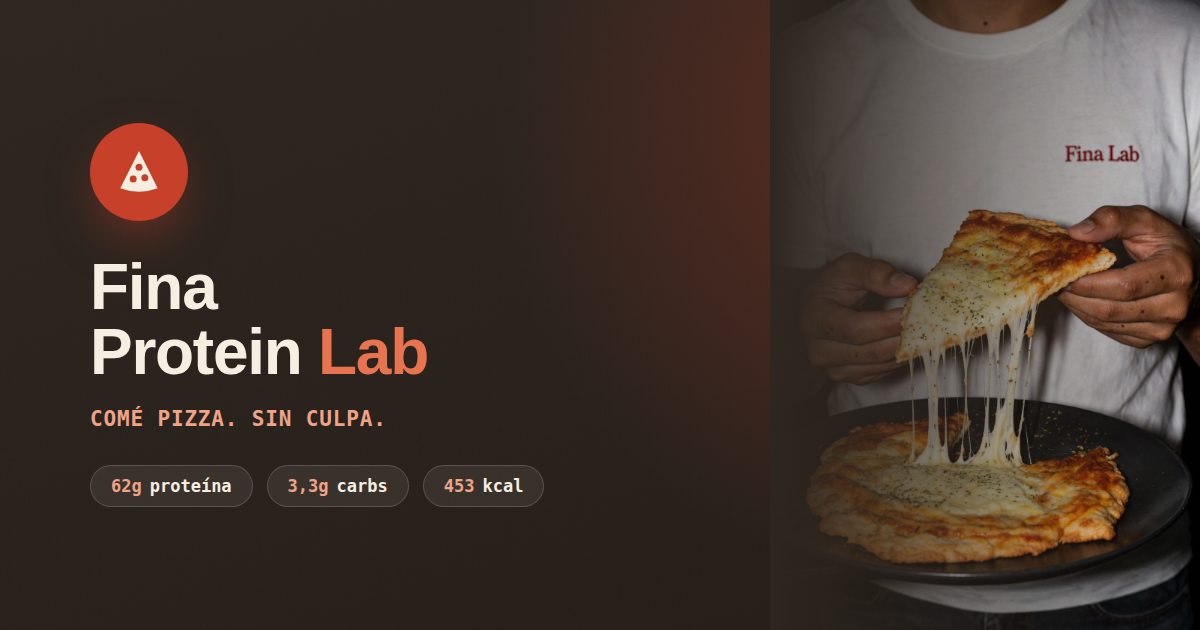
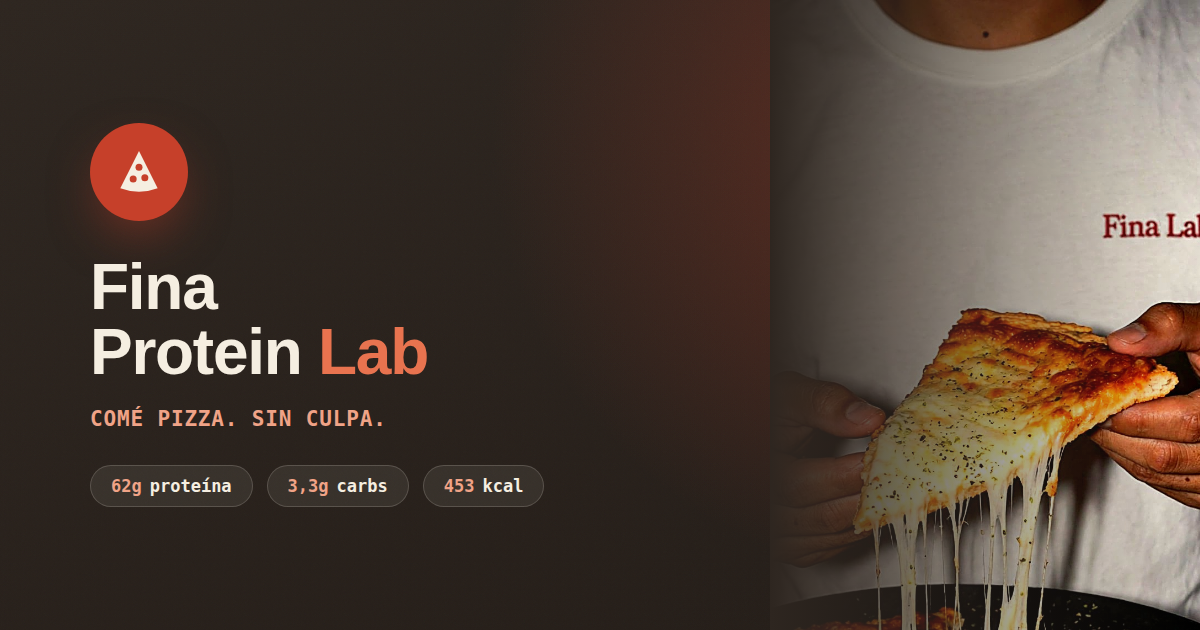
Mejora la imagen de preview (WhatsApp/OG): recorta la base del plato y sube color/contraste; reduce el padding general del sitio (hero, secciones, tarjetas, footer)
Claude-Session: https://claude.ai/code/session_01TBKkT9gcQF6bWxdRgJxBkS

Changed region(s): [[0.6783, 0.0, 1.0, 1.0]]

diff --git a/index.html b/index.html
@@ -94,7 +94,7 @@
   .btn-outline:hover{background:rgba(43,36,31,0.06); transform:translateY(-1px);}
 
   /* HERO — split, foto natural */
-  .hero{padding:56px 28px 72px; background:var(--paper);}
+  .hero{padding:44px 28px 52px; background:var(--paper);}
   .hero-grid{display:grid; grid-template-columns:1fr 0.92fr; gap:56px; align-items:center;}
   .eyebrow{
     display:inline-flex; align-items:center; gap:10px;
@@ -135,7 +135,7 @@
   .float-tag .l{font-size:10.5px; text-transform:uppercase; letter-spacing:0.06em; color:var(--ink-dim); margin-top:3px;}
 
   /* SECTIONS */
-  section{padding:72px 28px;}
+  section{padding:48px 28px;}
   .section-head{max-width:620px; margin-bottom:38px;}
   .kicker{
     display:flex; align-items:center; gap:9px;
@@ -150,7 +150,7 @@
   .nutri{background:var(--paper-2);}
   .nutri-cards{display:grid; grid-template-columns:repeat(5,1fr); gap:14px;}
   .nutri-card{
-    background:var(--paper); border-radius:20px; padding:26px 18px 22px;
+    background:var(--paper); border-radius:20px; padding:20px 16px 18px;
     text-align:center; box-shadow:0 10px 24px -16px rgba(39,35,32,0.18);
   }
   .nutri-card.feature{background:var(--red);}
@@ -175,7 +175,7 @@
   /* INGREDIENTES — foto plena, sin overlay */
   .ing-photo-band{width:100%; max-width:1040px; margin:0 auto; height:560px;}
   .ing-photo-band img{object-position:center center;}
-  .ing-body{padding-top:48px;}
+  .ing-body{padding-top:32px;}
   .ing-grid{display:grid; grid-template-columns:0.85fr 1.15fr; gap:48px; align-items:start;}
   .ing-chips{display:flex; flex-wrap:wrap; gap:10px; margin-bottom:22px;}
   .ing-chip{
@@ -191,7 +191,7 @@
 
   /* COMO FUNCIONA */
   .steps{display:grid; grid-template-columns:repeat(3,1fr); gap:20px;}
-  .step{background:var(--paper-2); border-radius:20px; padding:30px 26px; border:1px solid var(--line);}
+  .step{background:var(--paper-2); border-radius:20px; padding:22px 20px; border:1px solid var(--line);}
   .step .num{
     font-family:'IBM Plex Mono'; font-weight:700; font-size:13px;
     width:32px; height:32px; border-radius:50%; background:var(--red); color:var(--paper);
@@ -218,7 +218,7 @@
   .cta-photo{position:relative; min-height:280px;}
   .cta-photo img{object-position:center 30%;}
   .cta-stamp{position:absolute; top:16px; left:16px; width:92px; height:92px;}
-  .cta-text{padding:52px 44px; display:flex; flex-direction:column; justify-content:center;}
+  .cta-text{padding:36px 32px; display:flex; flex-direction:column; justify-content:center;}
   .cta-text h2{font-size:clamp(26px,3.2vw,36px); font-weight:800; margin-bottom:14px; letter-spacing:-0.02em; color:var(--ink);}
   .cta-text p{color:var(--ink-dim); margin-bottom:26px; font-size:15.5px;}
   @media (max-width: 760px){
@@ -227,7 +227,7 @@
   }
 
   /* FOOTER */
-  footer{padding:40px 28px 32px; background:var(--paper); border-top:1px solid var(--line); position:relative; overflow:hidden;}
+  footer{padding:30px 28px 24px; background:var(--paper); border-top:1px solid var(--line); position:relative; overflow:hidden;}
   .foot-grid{display:flex; justify-content:space-between; align-items:center; flex-wrap:wrap; gap:16px;}
   .foot-links{display:flex; gap:24px; font-size:13px; font-weight:600; color:var(--ink-dim);}
   .foot-links a:hover{color:var(--ink);}
@@ -406,7 +406,7 @@
     <div class="ing-photo-band">
       <img src="pizza-foto-ingredientes.jpg" alt="Fina Protein Lab — ingredientes reales">
     </div>
-    <div class="wrap ing-body" style="padding-bottom:72px;">
+    <div class="wrap ing-body" style="padding-bottom:48px;">
       <div class="ing-grid">
         <div class="section-head" style="margin-bottom:0;">
           <div class="kicker"><span class="dot"></span>Qué lleva adentro</div>
